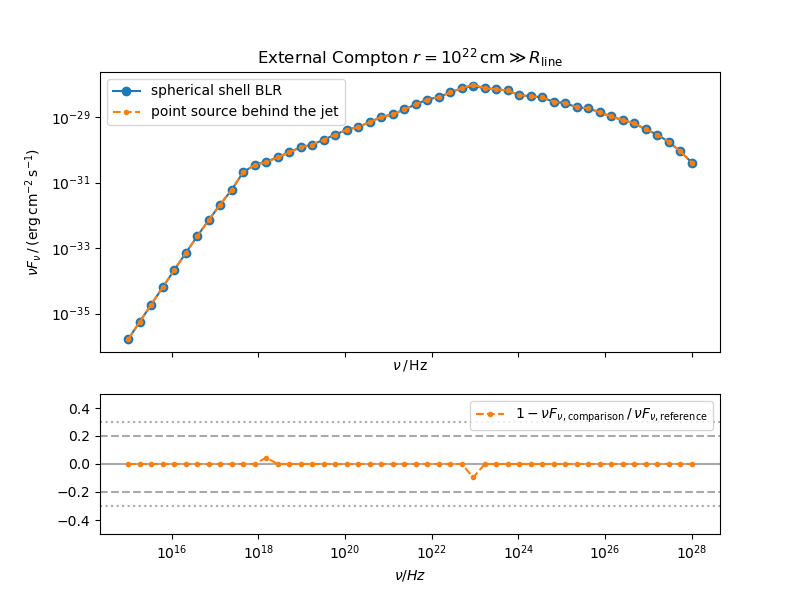
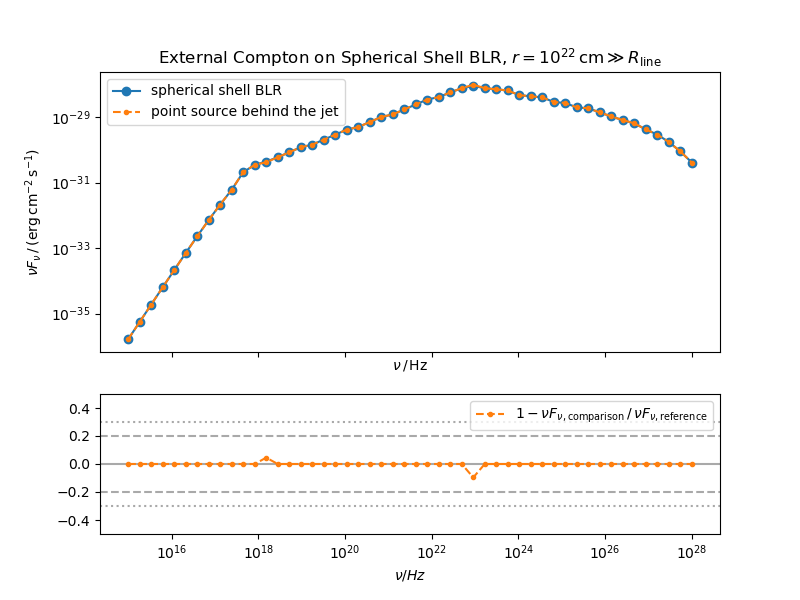
improved comparison plots

Changed region(s): [[0.1875, 0.06, 0.8438, 0.12]]

diff --git a/agnpy/tests/test_compton.py b/agnpy/tests/test_compton.py
@@ -223,7 +223,7 @@ class TestExternalCompton:
             ec_ps_blr_sed,
             "spherical shell BLR",
             "point source behind the jet",
-            "External Compton " + r"$r = 10^{22}\,{\rm cm} \gg R_{\rm line}$",
+            "External Compton on Spherical Shell BLR, " + r"$r = 10^{22}\,{\rm cm} \gg R_{\rm line}$",
             f"{data_dir}/crosscheck_figures/ec_blr_point_source_comparison.png",
         )
         # requires a 20% deviation from the two SED points
@@ -254,7 +254,7 @@ class TestExternalCompton:
             ec_ps_dt_sed,
             "ring dust torus",
             "point source behind the jet",
-            "External Compton " + r"$r = 10^{22}\,{\rm cm} \gg R_{\rm dt}$",
+            "External Compton on Ring Dust Torus, " + r"$r = 10^{22}\,{\rm cm} \gg R_{\rm dt}$",
             f"{data_dir}/crosscheck_figures/ec_dt_point_source_comparison.png",
         )
         # requires a 20% deviation from the two SED points
